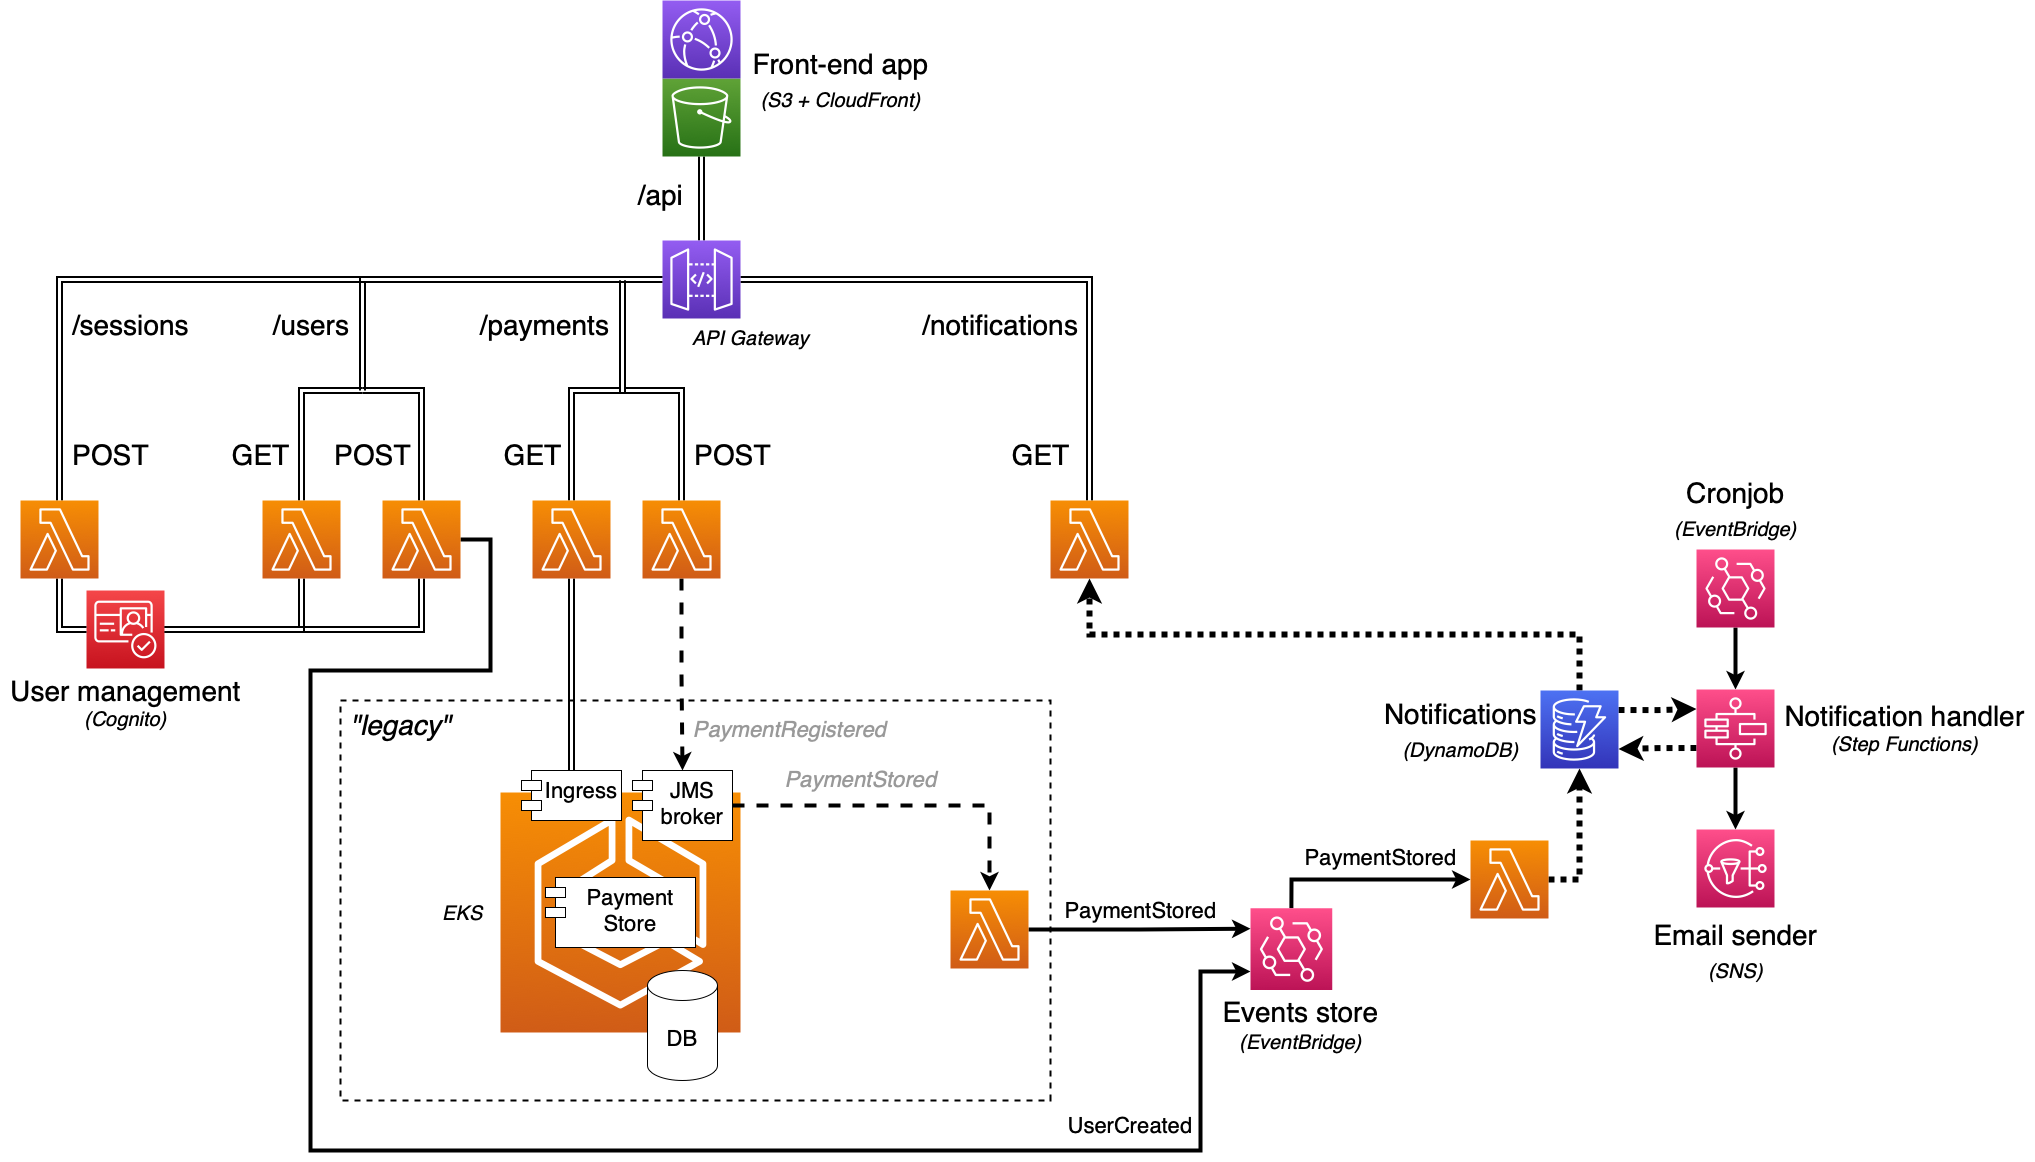
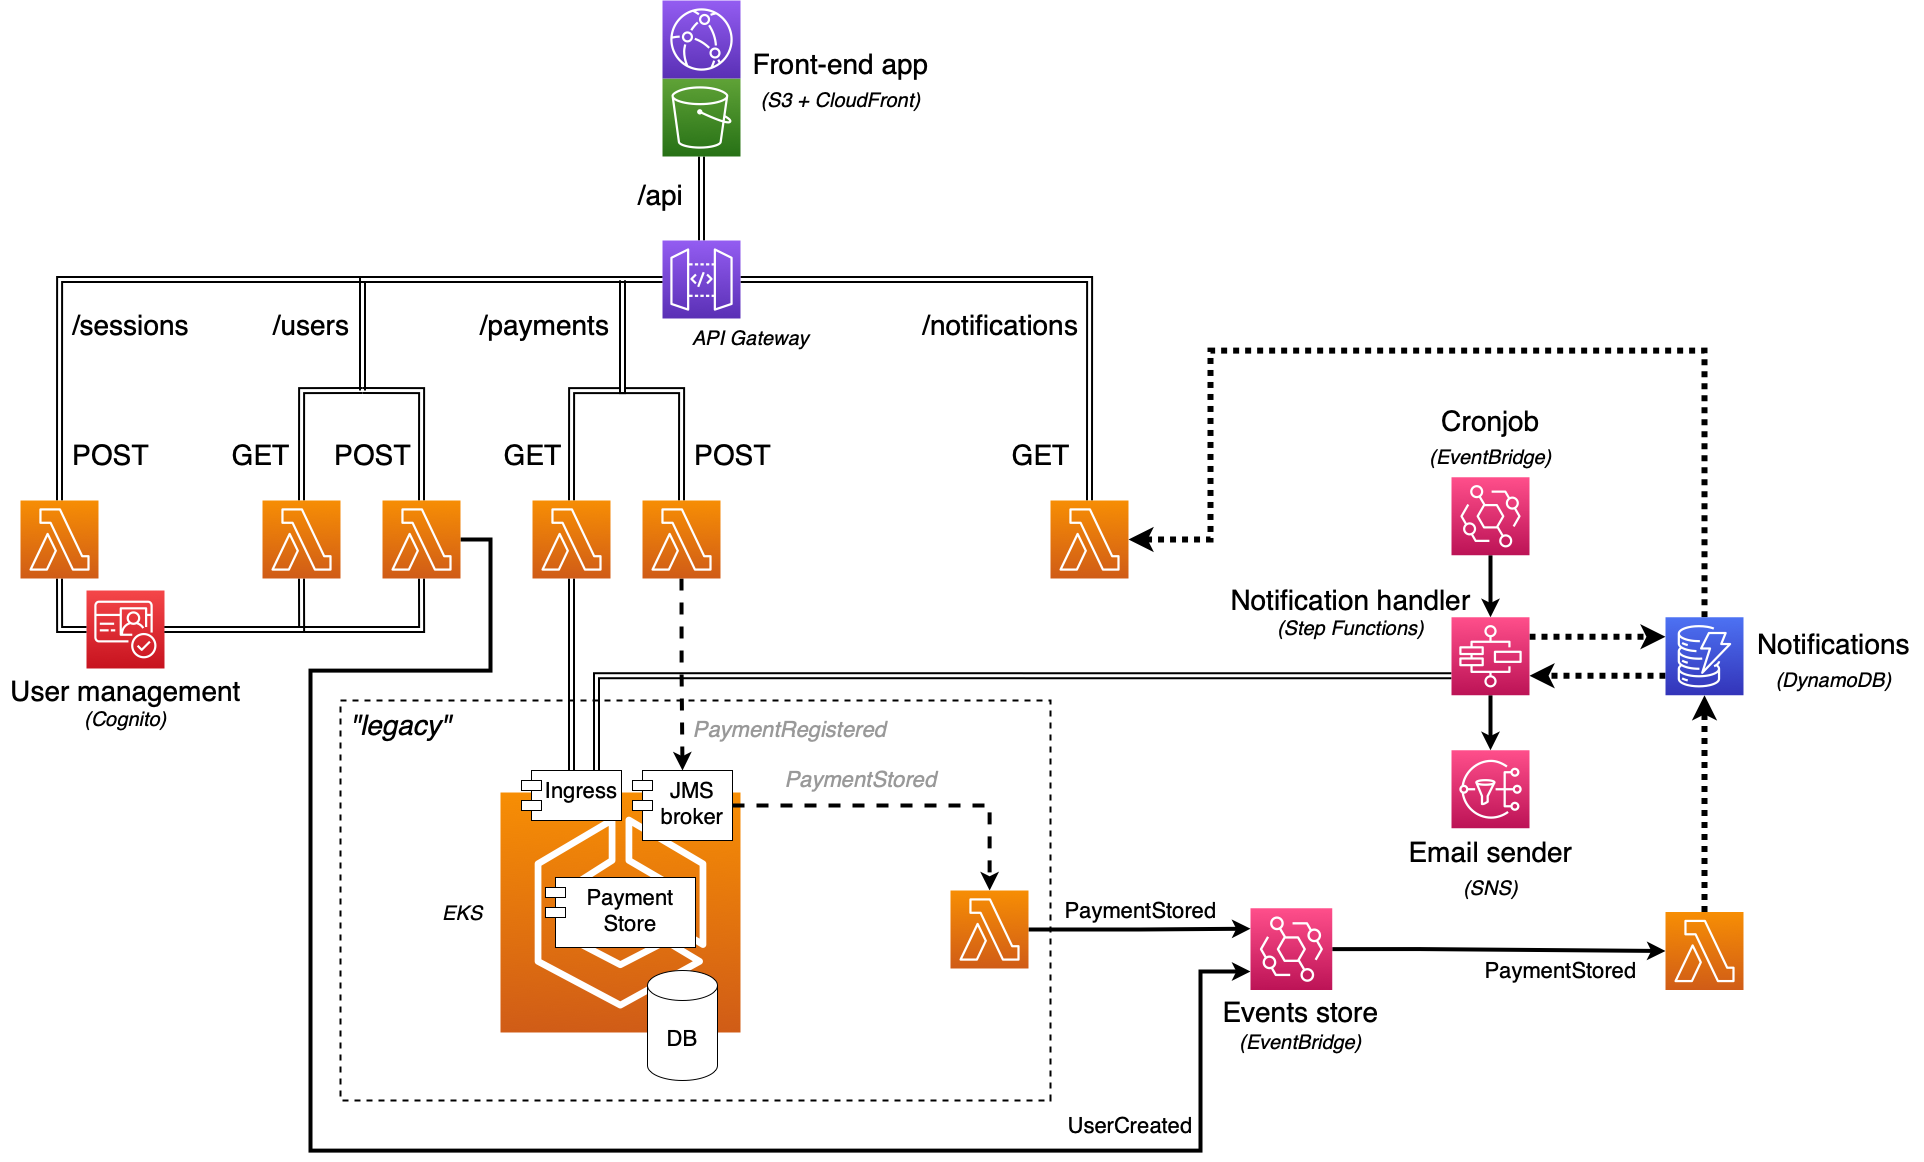
[Unusual Spending kata] Fixed architecture not including access to the saved payments during unusual spending calculation. Updated the event storming diagram. Added the final architecture diagram without the "legacy" (Kubernetes cluster) part.

diff --git a/unusual-spending/README.md b/unusual-spending/README.md
@@ -62,10 +62,12 @@ Later on as I've caught up more and more and learned about serverless design
 and Amazon Web Services, I've decided to leave the part of the system
 that was already running on Kubernetes 
 (Payment Store service, Artemis JMS broker, H2 database) 
-in place and instead of transforming other parts to microservices in the same K8S cluster
+in place ("legacy") and instead of transforming other parts 
+to microservices in the same K8S cluster
 I redesigned the solution to tackle a serverless approach.
 
-Target system architecture:
+##### Diagrams
+Target system architecture (with "legacy"):
 ![Architecture diagram](docs/architecture.png)
 
 Notification handler (Step Functions):
@@ -75,7 +77,10 @@ Notification handling could also be implemented as separated lambdas based on
 notification-related events, e.g.
 `NotificationCreated`, `NotificationSent`, `NotificationModificationFailed`.
 Such architecture would however be still strictly coupled - 
-step functions seem more explicit in this case. 
+step functions seem more explicit in this case.
+
+Final system architecture:
+![Architecture diagram](docs/final-architecture.png)
 
 #### Events
 ##### UserCreated
